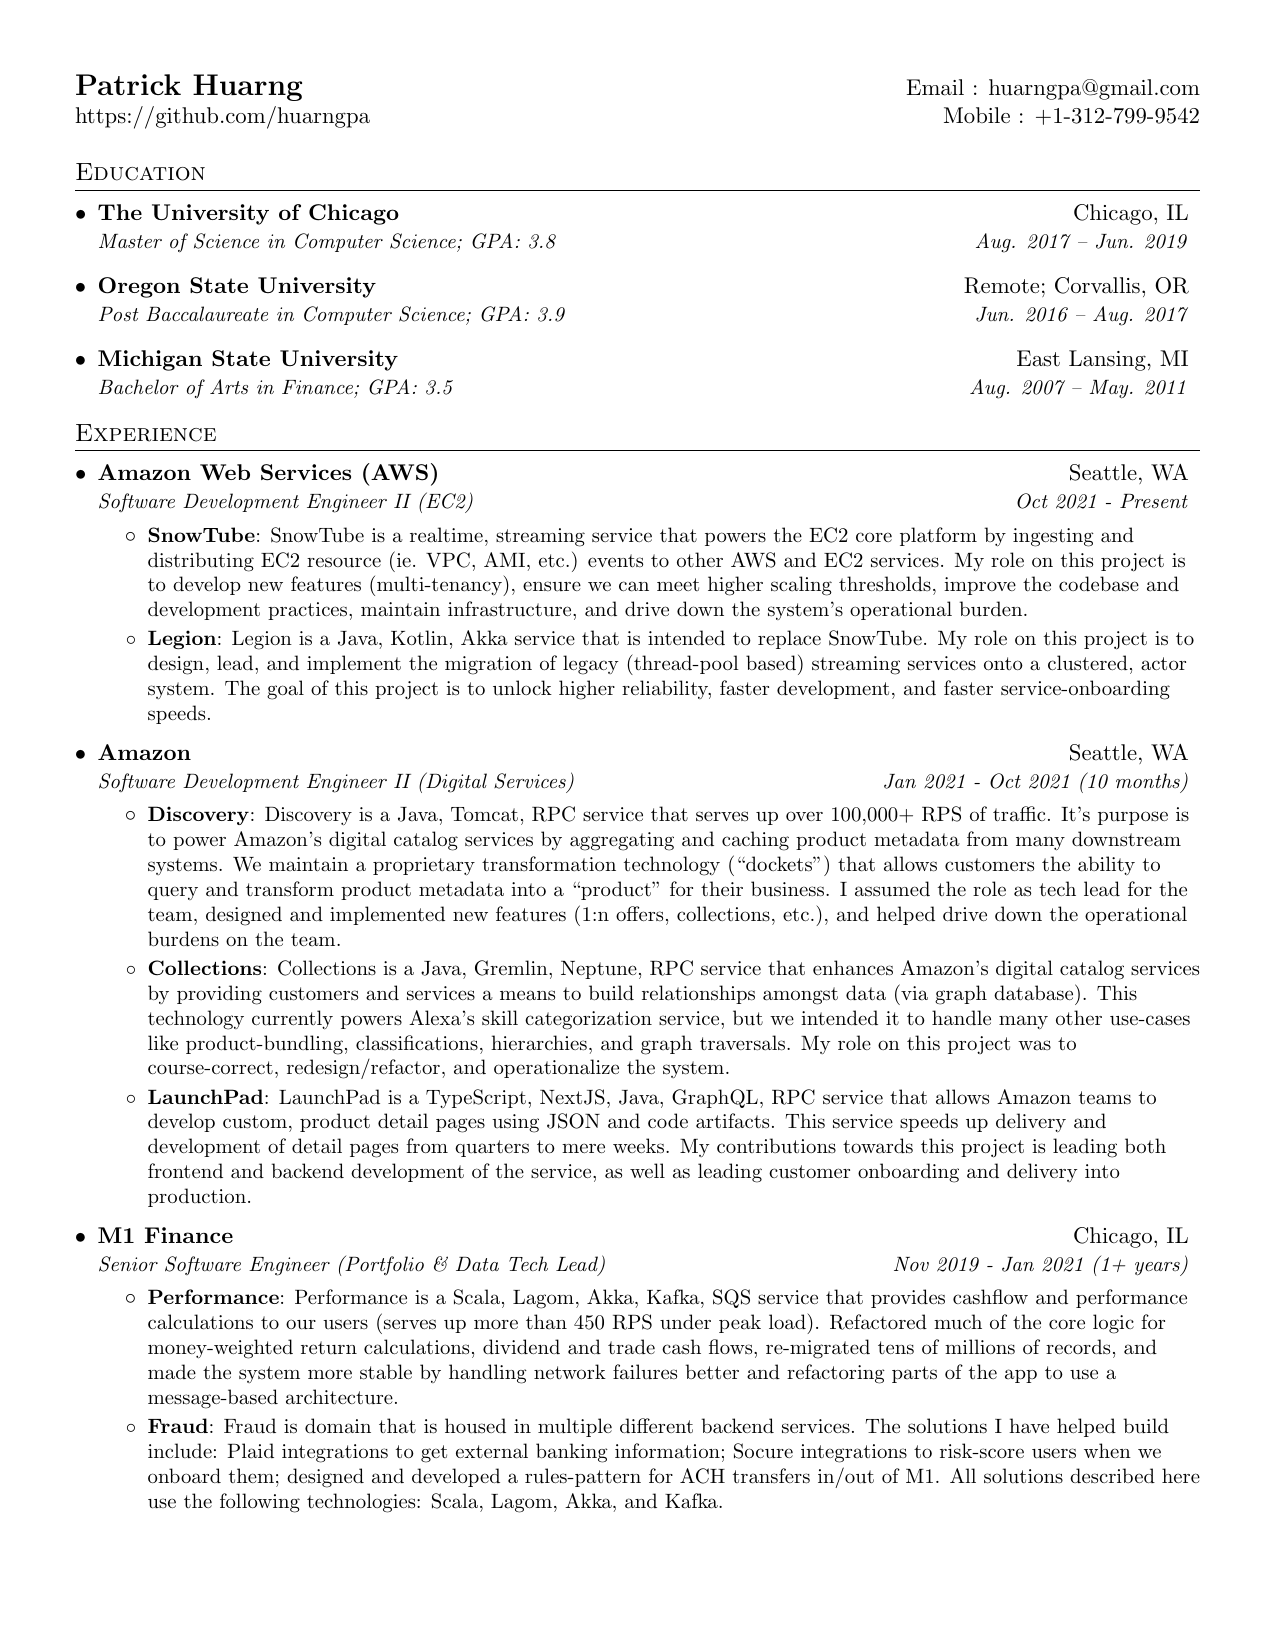
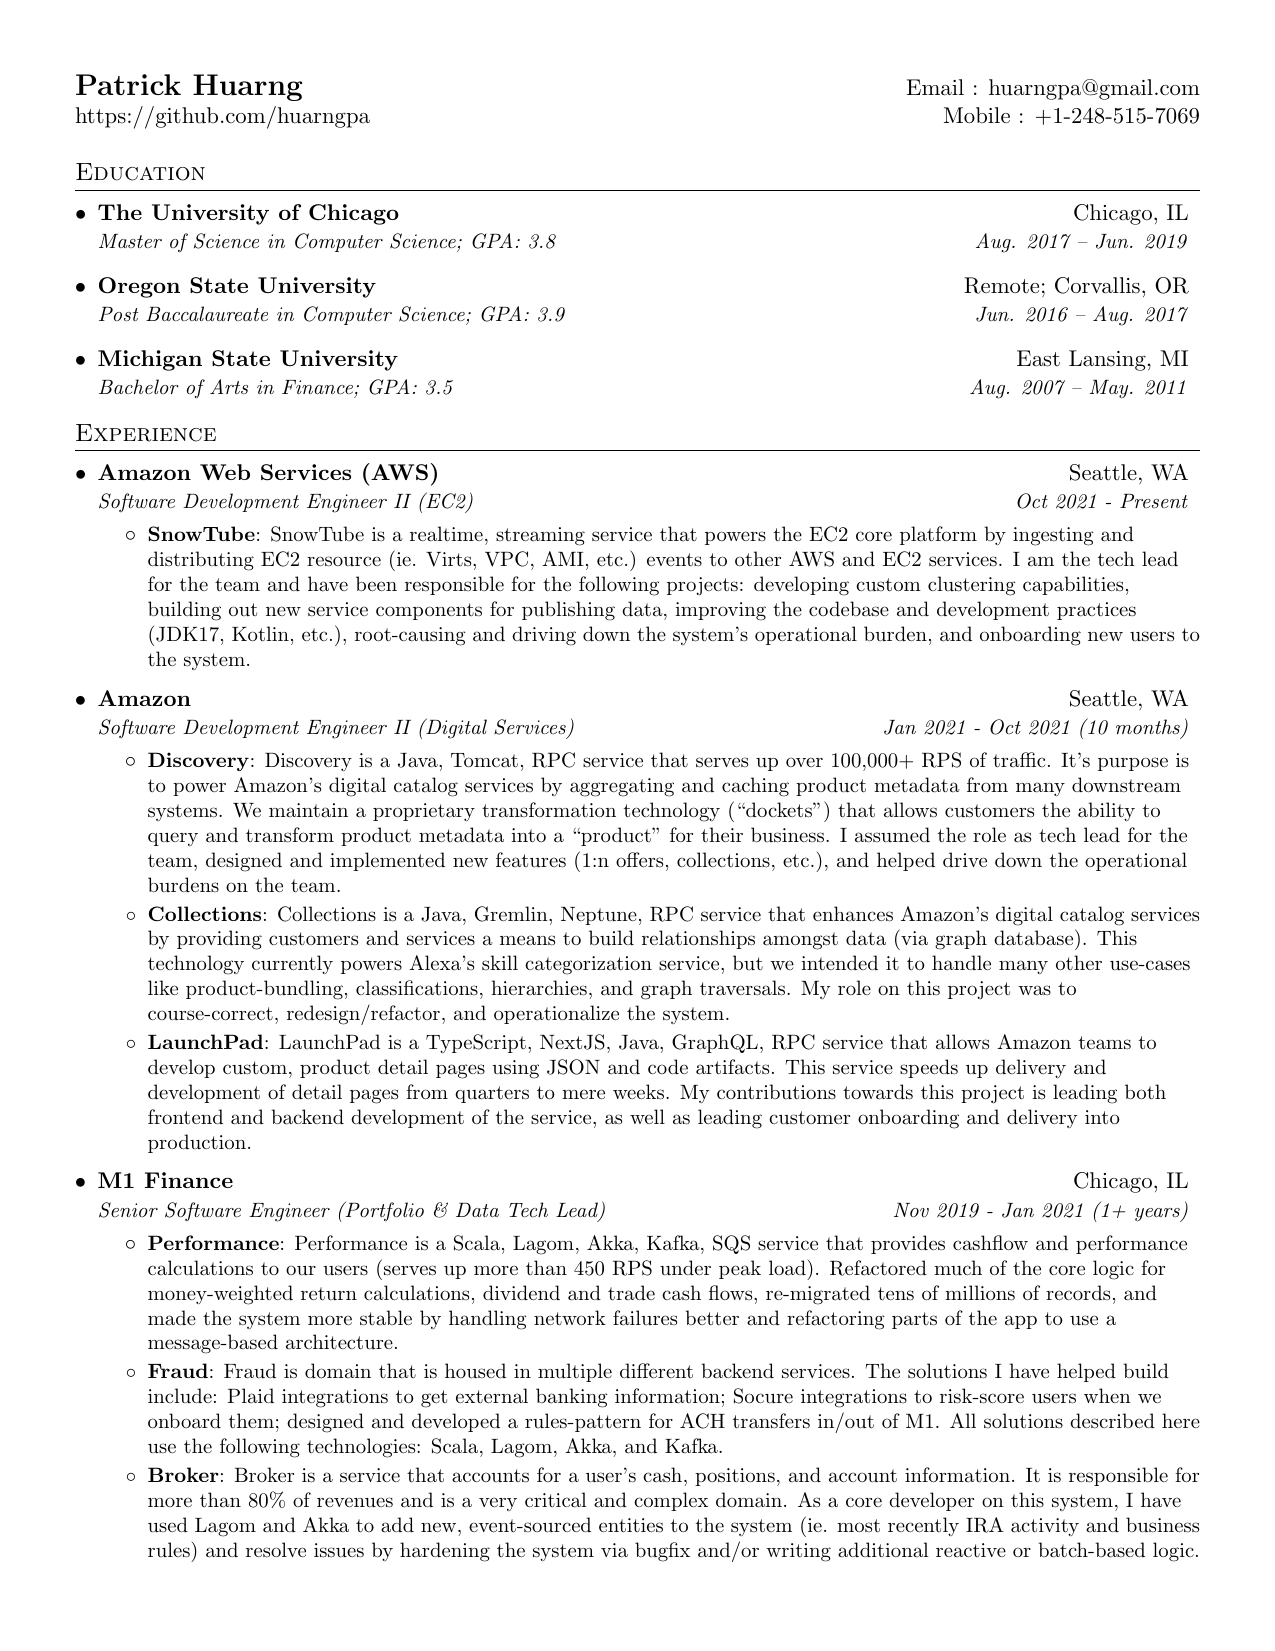
Refine ST work

Changed region(s): [[0.0612, 0.3089, 0.9482, 0.9576], [0.8565, 0.0618, 0.9482, 0.0927]]

diff --git a/huarngpa-resume.tex b/huarngpa-resume.tex
@@ -74,7 +74,7 @@
 %----------HEADING-----------------
 \begin{tabular*}{\textwidth}{l@{\extracolsep{\fill}}r}
   \textbf{\href{https://github.com/huarngpa/}{\Large Patrick Huarng}} & Email : \href{mailto:huarngpa@gmail.com}{huarngpa@gmail.com}\\
-  \href{https://github.com/huarngpa}{https://github.com/huarngpa} & Mobile : +1-312-799-9542 \\
+  \href{https://github.com/huarngpa}{https://github.com/huarngpa} & Mobile : +1-248-515-7069 \\
 \end{tabular*}
 
 
@@ -101,9 +101,7 @@
       {Software Development Engineer II (EC2)}{Oct 2021 - Present}
       \resumeItemListStart
         \resumeItem{SnowTube}
-          {SnowTube is a realtime, streaming service that powers the EC2 core platform by ingesting and distributing EC2 resource (ie. VPC, AMI, etc.) events to other AWS and EC2 services. My role on this project is to develop new features (multi-tenancy), ensure we can meet higher scaling thresholds, improve the codebase and development practices, maintain infrastructure, and drive down the system's operational burden.}
-        \resumeItem{Legion}
-          {Legion is a Java, Kotlin, Akka service that is intended to replace SnowTube. My role on this project is to design, lead, and implement the migration of legacy (thread-pool based) streaming services onto a clustered, actor system. The goal of this project is to unlock higher reliability, faster development, and faster service-onboarding speeds.}
+          {SnowTube is a realtime, streaming service that powers the EC2 core platform by ingesting and distributing EC2 resource (ie. Virts, VPC, AMI, etc.) events to other AWS and EC2 services. I am the tech lead for the team and have been responsible for the following projects: developing custom clustering capabilities, building out new service components for publishing data, improving the codebase and development practices (JDK17, Kotlin, etc.), root-causing and driving down the system's operational burden, and onboarding new users to the system.}
       \resumeItemListEnd
 
     \resumeSubheading

diff --git a/huarnpa-cover-letter.tex b/huarnpa-cover-letter.tex
@@ -79,9 +79,9 @@
 \begin{tabular}{l @{}}
 	\today \bigskip\\ % Date
 	Patrick Huarng \\
-	9401 178th Place, Unit 1 \\ % Address
-	Redmond, WA. 98052 \\
-	Phone: (312) 799-9542 \\
+	1158 Terra Ln \\ % Address
+	Rochester, MI. 48306 \\
+	Phone: (248) 515-7069 \\
 	Email: huarngpa@gmail.com
 \end{tabular}
 
